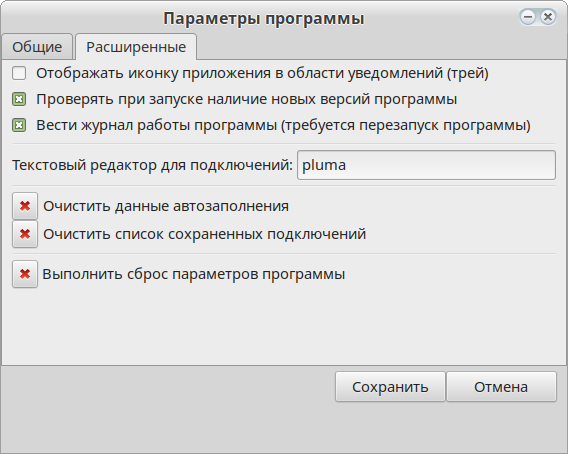
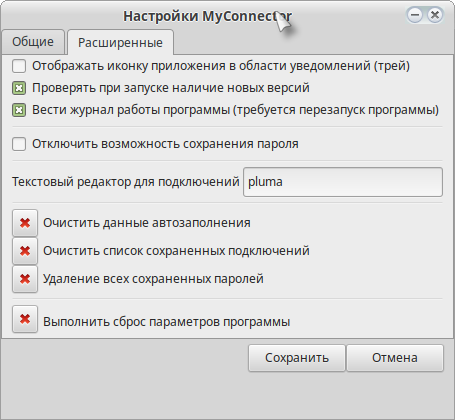
Updated docs

Changed region(s): [[0.0, 0.0, 1.0, 0.8667], [0.8923, 0.0, 0.9846, 0.0619]]

diff --git a/docs/index.html b/docs/index.html
@@ -140,7 +140,7 @@ $ sudo make install
 </div>
 <p>Есть возможность сменить программу для RDP-соединения - Remmina или FreeRDP. Для подключения по VNC тоже есть два варианта - Remmina и vncviewer (любая программа, предоставляющая данный функционал). По умолчанию подключение по RDP настроено через FreeRDP, VNC - через vncviewer.</p>
 <p>Также Вы можете настроить отображение определенного протокола на главном окне приложения по умолчанию и сортировку для <a class="reference internal" href="index.html#rst-list"><span class="std std-ref">Список сохраненных подключений</span></a>.</p>
-<p>На вкладке «Расширенные» настраивается отображение значка в трее, проверка обновлений программы, ведение логов и редактор для файлов подключений. Есть возможность очистить базу адресов серверов, к которым было совершено подключение (выпадающий список при вводе адреса на главном окне или в доп. параметрах), и <a class="reference internal" href="index.html#rst-list"><span class="std std-ref">Список сохраненных подключений</span></a>. Или произвести сброс всех параметров программы.</p>
+<p>На вкладке "Расширенные" настраивается отображение значка в трее, проверка обновлений программы, ведение логов, редактор для файлов подключений и сохранение паролей. Есть возможность очистить базу адресов серверов, к которым было совершено подключение (выпадающий список при вводе адреса на главном окне или в доп. параметрах),  <a class="reference internal" href="index.html#rst-list"><span class="std std-ref">cписок сохраненных подключений</span></a> и сохраненные пароли. Или произвести сброс всех параметров программы.</p>
 <div class="figure align-default">
 <img alt="_img/params2.png" src="_img/params2.png" />
 </div>
@@ -163,12 +163,13 @@ $ sudo make install
 </div>
 <p>Сохраненные подключения в списке представляют собой файлы с расширением .myc, сохраняемые в домашней папке текущего пользователя в папке .myconnector. Эти файлы возможно открывать на других компьютерах с установленным MyConnector или редактировать в любом удобном текстовом редакторе.</p>
 <p>При двойном щелчке на одном из подключений произойдет запуск требуемой программы для соединения (или нажатие правой кнопкой мыши на нужном соединении и далее выбрать пункт меню «Подключение»).</p>
-<p>Также через нажатие правой кнопки мыши на любом из сохраненных соединений, Вы можете выбрать пункт «Изменить» - тогда откроется окно дополнительных настроек данного подключения с заполненными полями. При выборе пункта «Копировать» - откроется такое же окно, однако при сохранении добавится новое подключение с измененными Вами параметрами. При выборе пункта «Удалить» - Вы удалите подключение из списка.</p>
+<p>Также через нажатие правой кнопки мыши на любом из сохраненных соединений, Вы можете выбрать пункт "Изменить" - тогда откроется окно дополнительных настроек данного подключения с заполненными полями. При выборе пункта "Копировать" - откроется такое же окно, однако при сохранении добавится новое подключение с измененными Вами параметрами. При выборе пункта "Переименовать" - откроется диалоговое окно переименования подключения (без открытия свойств самого подключения). При выборе пункта "Удалить" - Вы удалите подключение из списка.</p>
 <p>Пункт данного меню «Сохранить ярлык» позволяет создать кнопку запуска приложения MyConnector с быстрым подключением к выбранному соединению в любом месте на Вашем компьютере (по умолчанию на рабочем столе). Также это можно сделать простым перетаскиванием подключения в нужное место. Формат команды:</p>
 <div class="highlight-default notranslate"><div class="highlight"><pre><span></span>$ myconnector -c|--connection &lt;имя_подключения&gt;
 </pre></div>
 </div>
 <p>Пункт "Автозапуск подключения" позволяет настроить запускать ли данное подключение при входе пользователя в сеанс или нет. Если включить - то в папке <code class="docutils literal notranslate"><span class="pre">$HOME/.config/autostart</span></code> создаться ярлык запуска подключения, если выключить - удалится при наличии.</p>
+<p>Пункт "Открыть как текст" позволяет открыть файл подключения в текстовом редакторе, указанном в настройках программы на вкладке «Расширенные» (<a class="reference internal" href="index.html#rst-prog-settings"><span class="std std-ref">Параметры программы</span></a>).</p>
 <p>Список поддерживает сортировку и группировку (группа указывается в <a class="reference internal" href="index.html#rst-conn-settings"><span class="std std-ref">Дополнительные параметры подключений</span></a>).</p>
 </div>
 <span id="document-kiosk"></span><div class="section" id="rst-kiosk">
@@ -295,6 +296,10 @@ NAME
 </div>
 <span id="document-other"></span><div class="section" id="rst-other">
 <span id="id1"></span><h2>Прочие возможности<a class="headerlink" href="#rst-other" title="Ссылка на этот заголовок">¶</a></h2>
+<div class="section" id="search">
+<h3>Поиск по списку подключений (фильтр)<a class="headerlink" href="#search" title="Ссылка на этот заголовок">¶</a></h3>
+<p>В нижней части главного окна программы есть поле для ввода поискового запроса (можно нажать Ctrl+F для установки фокуса на данное поле). Поддерживается инверсия  русской и английской раскладки клавиатуры (например при вводе <i>ыукмук</i> найдется <i>server</i>).</p>
+</div>
 <div class="section" id="id6">
 <h3>Открытие файлов<a class="headerlink" href="#id6" title="Ссылка на этот заголовок">¶</a></h3>
 <p>В программе есть возможность открытия файлов .myc, .rdp и .remmina. Для этого в пункте меню «Файл» выберите «Открыть», либо дважды щелкните на нем в файловом менеджере. После выбора необходимого файла будет произведена попытка соединения - если файл не содержит параметров или содержит ошибки, то отобразится соответствующее сообщение. В другом случае - произойдет успешное подключение к серверу.</p>
@@ -307,7 +312,7 @@ NAME
 usage: ctor2myc [-v] input.ctor [output.myc]
 </pre></div>
 </div>
-<p>Также при первом запуске MyConnector и при наличие рабочей папки .connector в домашней папке пользователя будет выдан запрос на автоматический импорт всех имеющихся там соединений.</p>
+<p>Также при первом запуске MyConnector и при наличии в рабочей папке .connector в домашней папке пользователя файлов подключения Connector будет выдан запрос на автоматический импорт всех имеющихся там соединений.</p>
 </div>
 <div class="section" id="id8">
 <h3>Ведение логов<a class="headerlink" href="#id8" title="Ссылка на этот заголовок">¶</a></h3>
@@ -319,7 +324,7 @@ usage: ctor2myc [-v] input.ctor [output.myc]
 </div>
 <div class="section" id="id10">
 <h3>Справка по программе MyConnector<a class="headerlink" href="#id10" title="Ссылка на этот заголовок">¶</a></h3>
-<p>Ссылка на данную страницу Wiki всегда доступна из приложения - пункт главного меню «Справка». Там же краткие сведения о программе и об ее разработчике. Также справочную информацию можно просмотреть и на компьютере (данную вики планируется разместить в отдельном пакете <code class="docutils literal notranslate"><span class="pre">myconnector-docs</span></code>):</p>
+<p>Ссылка на данную страницу Wiki всегда доступна из приложения - пункт главного меню "Справка". Там же краткие сведения о программе и об ее разработчике. Также справочную информацию можно просмотреть и на компьютере (данная вики размещена в отдельном пакете <code class="docutils literal notranslate"><span class="pre">myconnector-docs</span></code>):</p>
 <div class="highlight-default notranslate"><div class="highlight"><pre><span></span>$ man myconnector
 $ myconnector --help
 </pre></div>

diff --git a/docs/list.rst b/docs/list.rst
@@ -26,12 +26,14 @@
 
 При двойном щелчке на одном из подключений произойдет запуск требуемой программы для соединения (или нажатие правой кнопкой мыши на нужном соединении и далее выбрать пункт меню "Подключение").
 
-Также через нажатие правой кнопки мыши на любом из сохраненных соединений, Вы можете выбрать пункт "Изменить" - тогда откроется окно дополнительных настроек данного подключения с заполненными полями. При выборе пункта "Копировать" - откроется такое же окно, однако при сохранении добавится новое подключение с измененными Вами параметрами. При выборе пункта "Удалить" - Вы удалите подключение из списка.
+Также через нажатие правой кнопки мыши на любом из сохраненных соединений, Вы можете выбрать пункт "Изменить" - тогда откроется окно дополнительных настроек данного подключения с заполненными полями. При выборе пункта "Копировать" - откроется такое же окно, однако при сохранении добавится новое подключение с измененными Вами параметрами. При выборе пункта "Переименовать" - откроется диалоговое окно переименования подключения (без открытия свойств самого подключения). При выборе пункта "Удалить" - Вы удалите подключение из списка.
 
 Пункт данного меню "Сохранить ярлык" позволяет создать кнопку запуска приложения MyConnector с быстрым подключением к выбранному соединению в любом месте на Вашем компьютере (по умолчанию на рабочем столе). Также это можно сделать простым перетаскиванием подключения в нужное место. Формат команды::
 
     $ myconnector -c|--connection <имя_подключения>
 
 Пункт "Автозапуск подключения" позволяет настроить запускать ли данное подключение при входе пользователя в сеанс или нет. Если включить - то в папке ``$HOME/.config/autostart`` создаться ярлык запуска подключения, если выключить - удалится при наличии.
+
+Пункт "Открыть как текст" позволяет открыть файл подключения в текстовом редакторе, указанном на вкладке "Расширенные" в :ref:`rst-prog-settings`.
 
 Список поддерживает сортировку и группировку (группа указывается в :ref:`rst-conn-settings`).

diff --git a/docs/prog_settings.rst b/docs/prog_settings.rst
@@ -18,7 +18,7 @@
 Параметры программы
 ===================
 
-Для выбора программ, используемых по умолчанию для подключения по протоколам RDP и VNC, необходимо открыть главное меню программы и выбрать "Параметры" (или через :ref:`rst-tray`), либо нажать комбинацию клавиш Ctrl+P. После этого откроется окно настройки параметров приложения:
+Для выбора программ, используемых по умолчанию для подключения по протоколам RDP и VNC, необходимо открыть главное меню программы и выбрать "Параметры" (или через :ref:`rst-tray`), либо нажать комбинацию клавиш :guilabel:`&Ctrl` + :guilabel:`&P`. После этого откроется окно настройки параметров приложения:
 
 .. figure:: _img/params1.png
 
@@ -26,6 +26,6 @@
 
 Также Вы можете настроить отображение определенного протокола на главном окне приложения по умолчанию и сортировку для :ref:`rst-list`.
 
-На вкладке "Расширенные" настраивается отображение значка в трее, проверка обновлений программы, ведение логов и редактор для файлов подключений. Есть возможность очистить базу адресов серверов, к которым было совершено подключение (выпадающий список при вводе адреса на главном окне или в доп. параметрах), и :ref:`rst-list`. Или произвести сброс всех параметров программы.
+На вкладке "Расширенные" настраивается отображение значка в трее, проверка обновлений программы, ведение логов, редактор для файлов подключений и сохранение паролей. Есть возможность очистить базу адресов серверов, к которым было совершено подключение (выпадающий список при вводе адреса на главном окне или в доп. параметрах), :ref:`rst-list` и сохраненные пароли. Или произвести сброс всех параметров программы.
 
 .. figure:: _img/params2.png

diff --git a/docs/other.rst b/docs/other.rst
@@ -18,6 +18,11 @@
 Прочие возможности
 ==================
 
+Поиск по списку подключений (фильтр)
+~~~~~~~~~~~~~~~~~~~~~~~~~~~~~~~~~~~~
+
+В нижней части главного окна программы есть поле для ввода поискового запроса (можно нажать :guilabel:`&Ctrl` + :guilabel:`&F` для установки фокуса на данное поле). Поддерживается инверсия  русской и английской раскладки клавиатуры (например при вводе *ыукмук* найдется *server*).
+
 Открытие файлов
 ~~~~~~~~~~~~~~~
 
@@ -33,7 +38,7 @@
     $ ctor2myc
     usage: ctor2myc [-v] input.ctor [output.myc]
 
-Также при первом запуске MyConnector и при наличие рабочей папки .connector в домашней папке пользователя будет выдан запрос на автоматический импорт всех имеющихся там соединений.
+Также при первом запуске MyConnector и при наличии в рабочей папке .connector в домашней папке пользователя файлов подключения Connector будет выдан запрос на автоматический импорт всех имеющихся там соединений.
 
 Ведение логов
 ~~~~~~~~~~~~~
@@ -48,7 +53,7 @@
 Справка по программе MyConnector
 ~~~~~~~~~~~~~~~~~~~~~~~~~~~~~~~~
 
-Ссылка на данную страницу Wiki всегда доступна из приложения - пункт главного меню "Справка". Там же краткие сведения о программе и об ее разработчике. Также справочную информацию можно просмотреть и на компьютере (данную вики планируется разместить в отдельном пакете ``myconnector-docs``)::
+Ссылка на данную страницу Wiki всегда доступна из приложения - пункт главного меню "Справка". Там же краткие сведения о программе и об ее разработчике. Также справочную информацию можно просмотреть и на компьютере (данная вики размещена в отдельном пакете ``myconnector-docs``)::
 
     $ man myconnector
     $ myconnector --help
